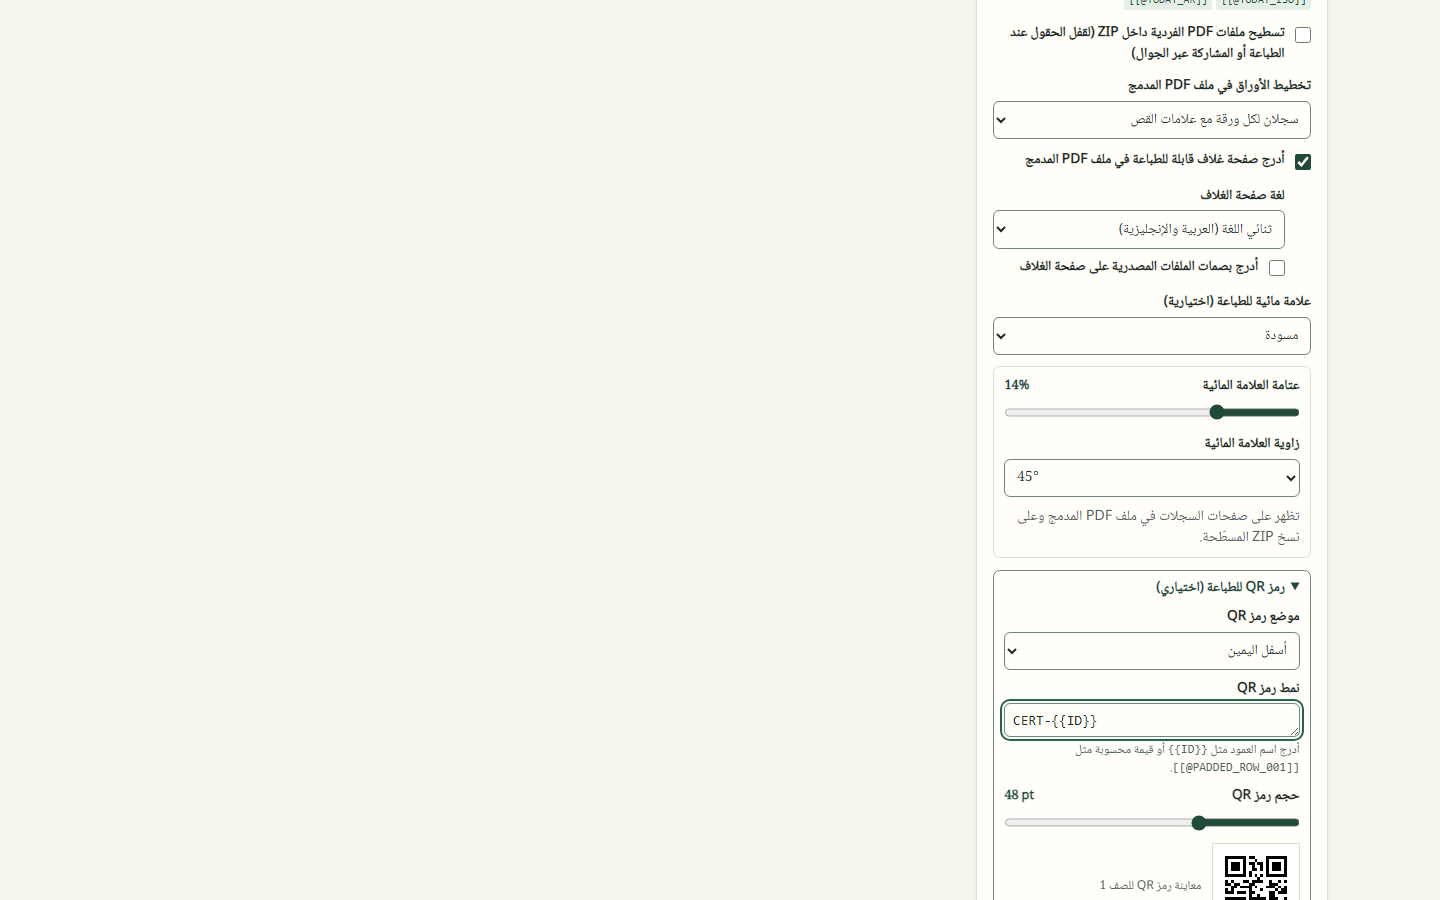
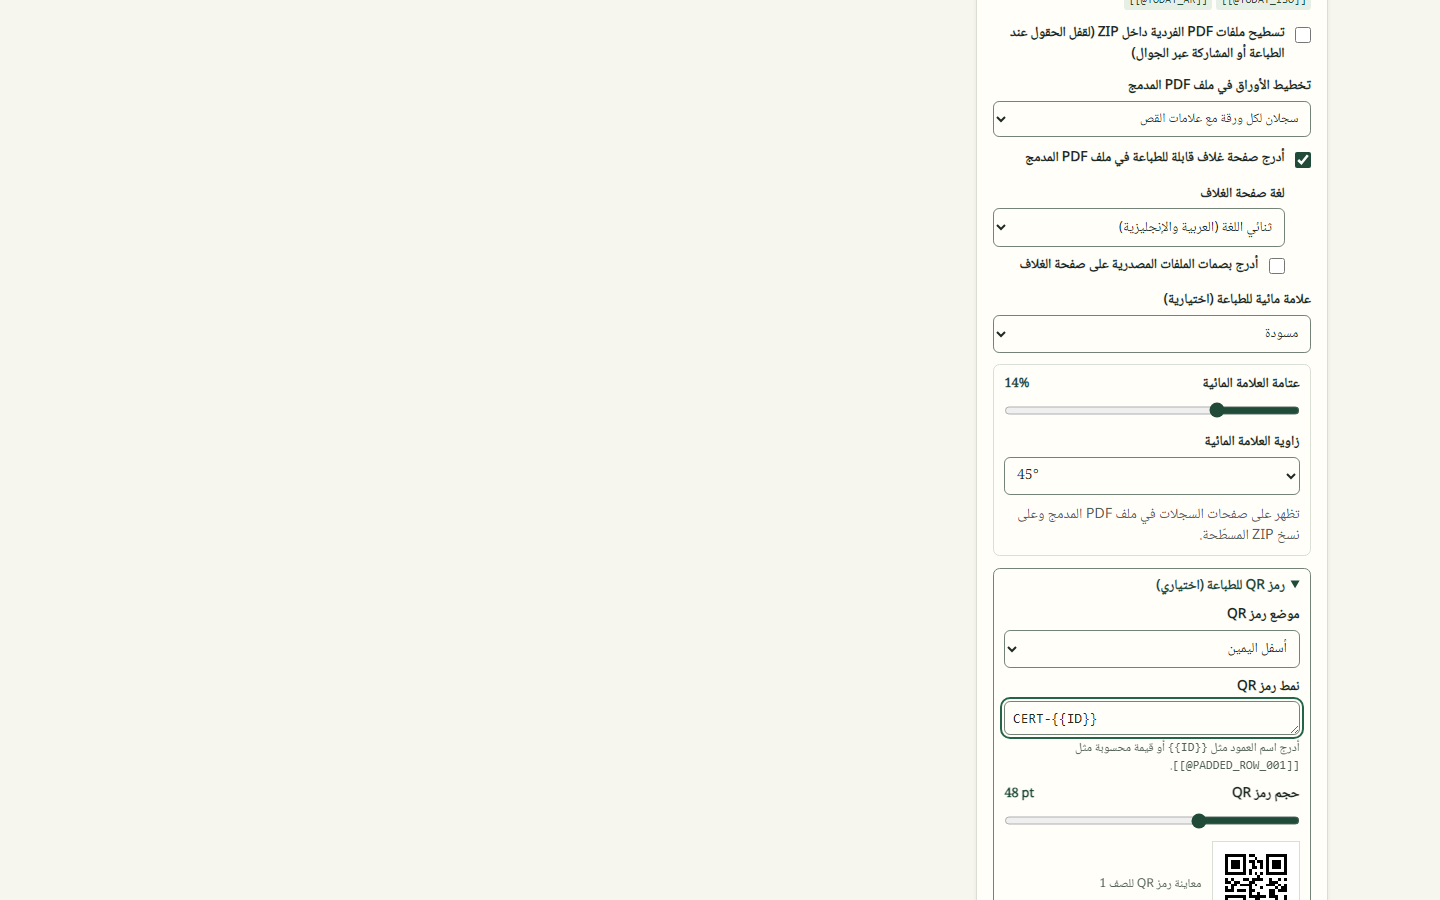
test: read the complete native two-up label on desktop and mobile

diff --git a/tests/e2e/m13-workbook-print.spec.ts b/tests/e2e/m13-workbook-print.spec.ts
@@ -81,6 +81,18 @@ async function settings(page: Page) {
 }
 
 async function screenshot(page: Page, info: TestInfo, arabic = false) {
+  const measure = await page.getByTestId('imposition').evaluate(async element => {
+    await document.fonts.ready;
+    const select = element as HTMLSelectElement;
+    const css = getComputedStyle(select);
+    const canvas = document.createElement('canvas').getContext('2d')!;
+    canvas.font = css.fontWeight + ' ' + css.fontSize + ' ' + css.fontFamily;
+    const text = select.selectedOptions[0]!.text;
+    const available = select.clientWidth - parseFloat(css.paddingLeft) - parseFloat(css.paddingRight) - 18;
+    return { text, textWidth: canvas.measureText(text).width, available, caretAllowance: 18 };
+  });
+  expect(measure.textWidth, 'the closed native select shows the complete option beside the Edge caret').toBeLessThanOrEqual(measure.available);
+  await writeFile(info.outputPath('native-layout.json'), JSON.stringify(measure));
   if (process.env.ARABIFORM_CAPTURE_M13_SCREENSHOTS !== '1' || arabic && info.project.name === 'mobile') return;
   const dir = resolve('docs/reports/screenshots/m13');
   const name = arabic ? 'desktop-m13-ar-rtl-2up' : info.project.name === 'mobile' ? 'mobile-m13-2up' : 'desktop-m13-xlsx-sheet-and-2up';
